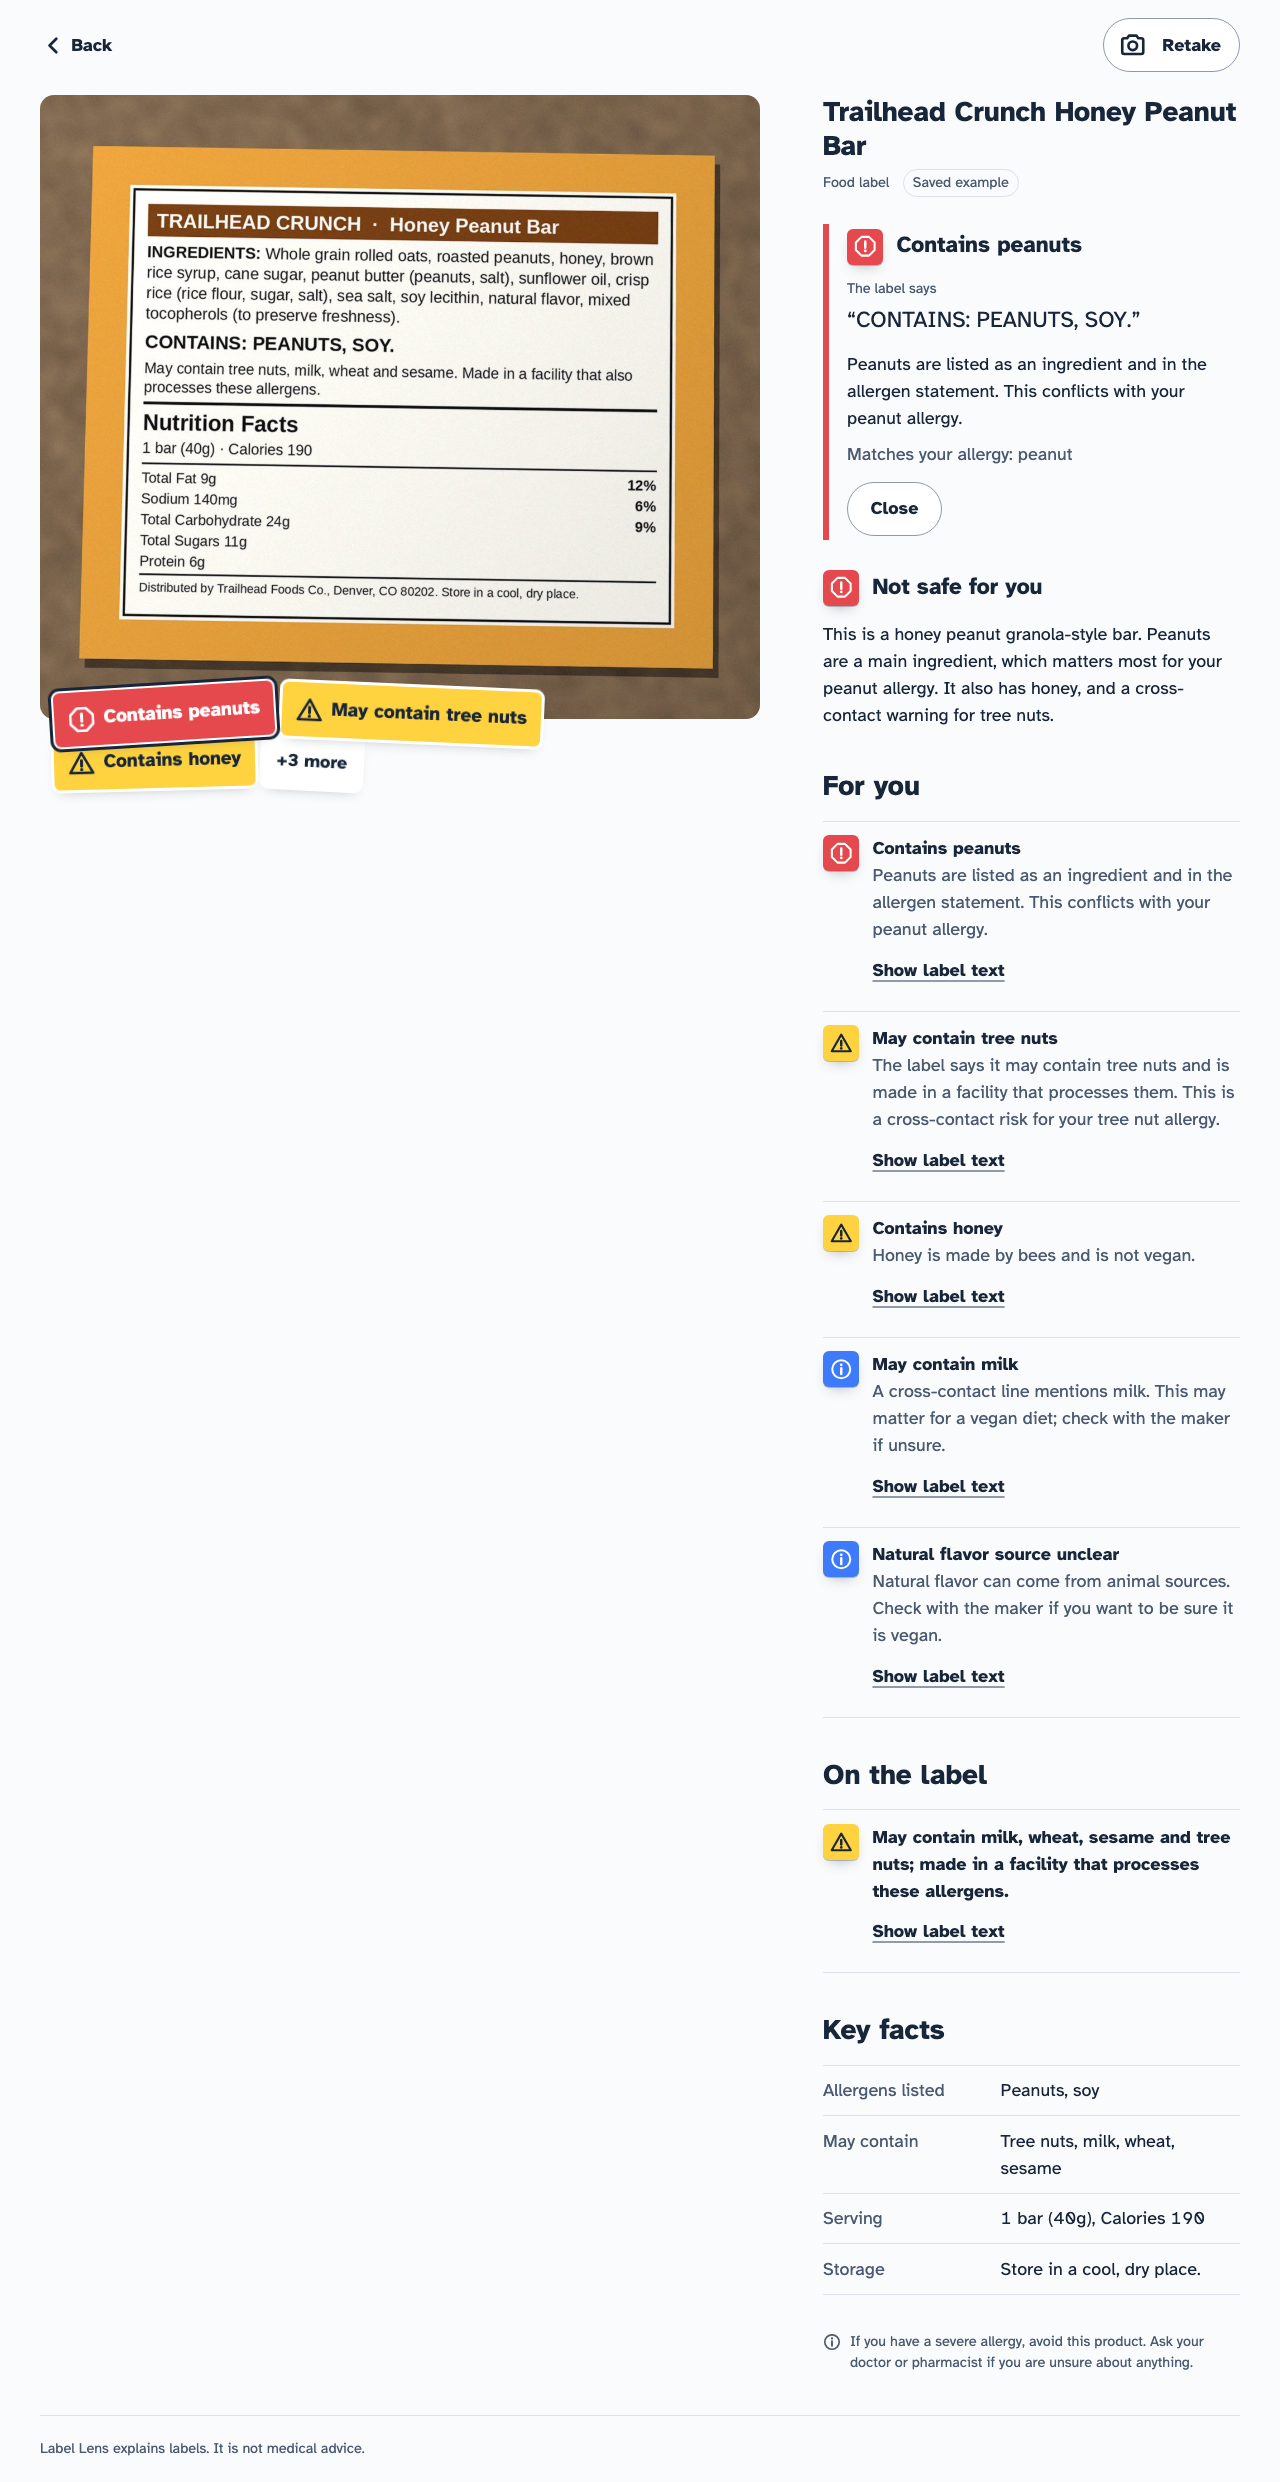
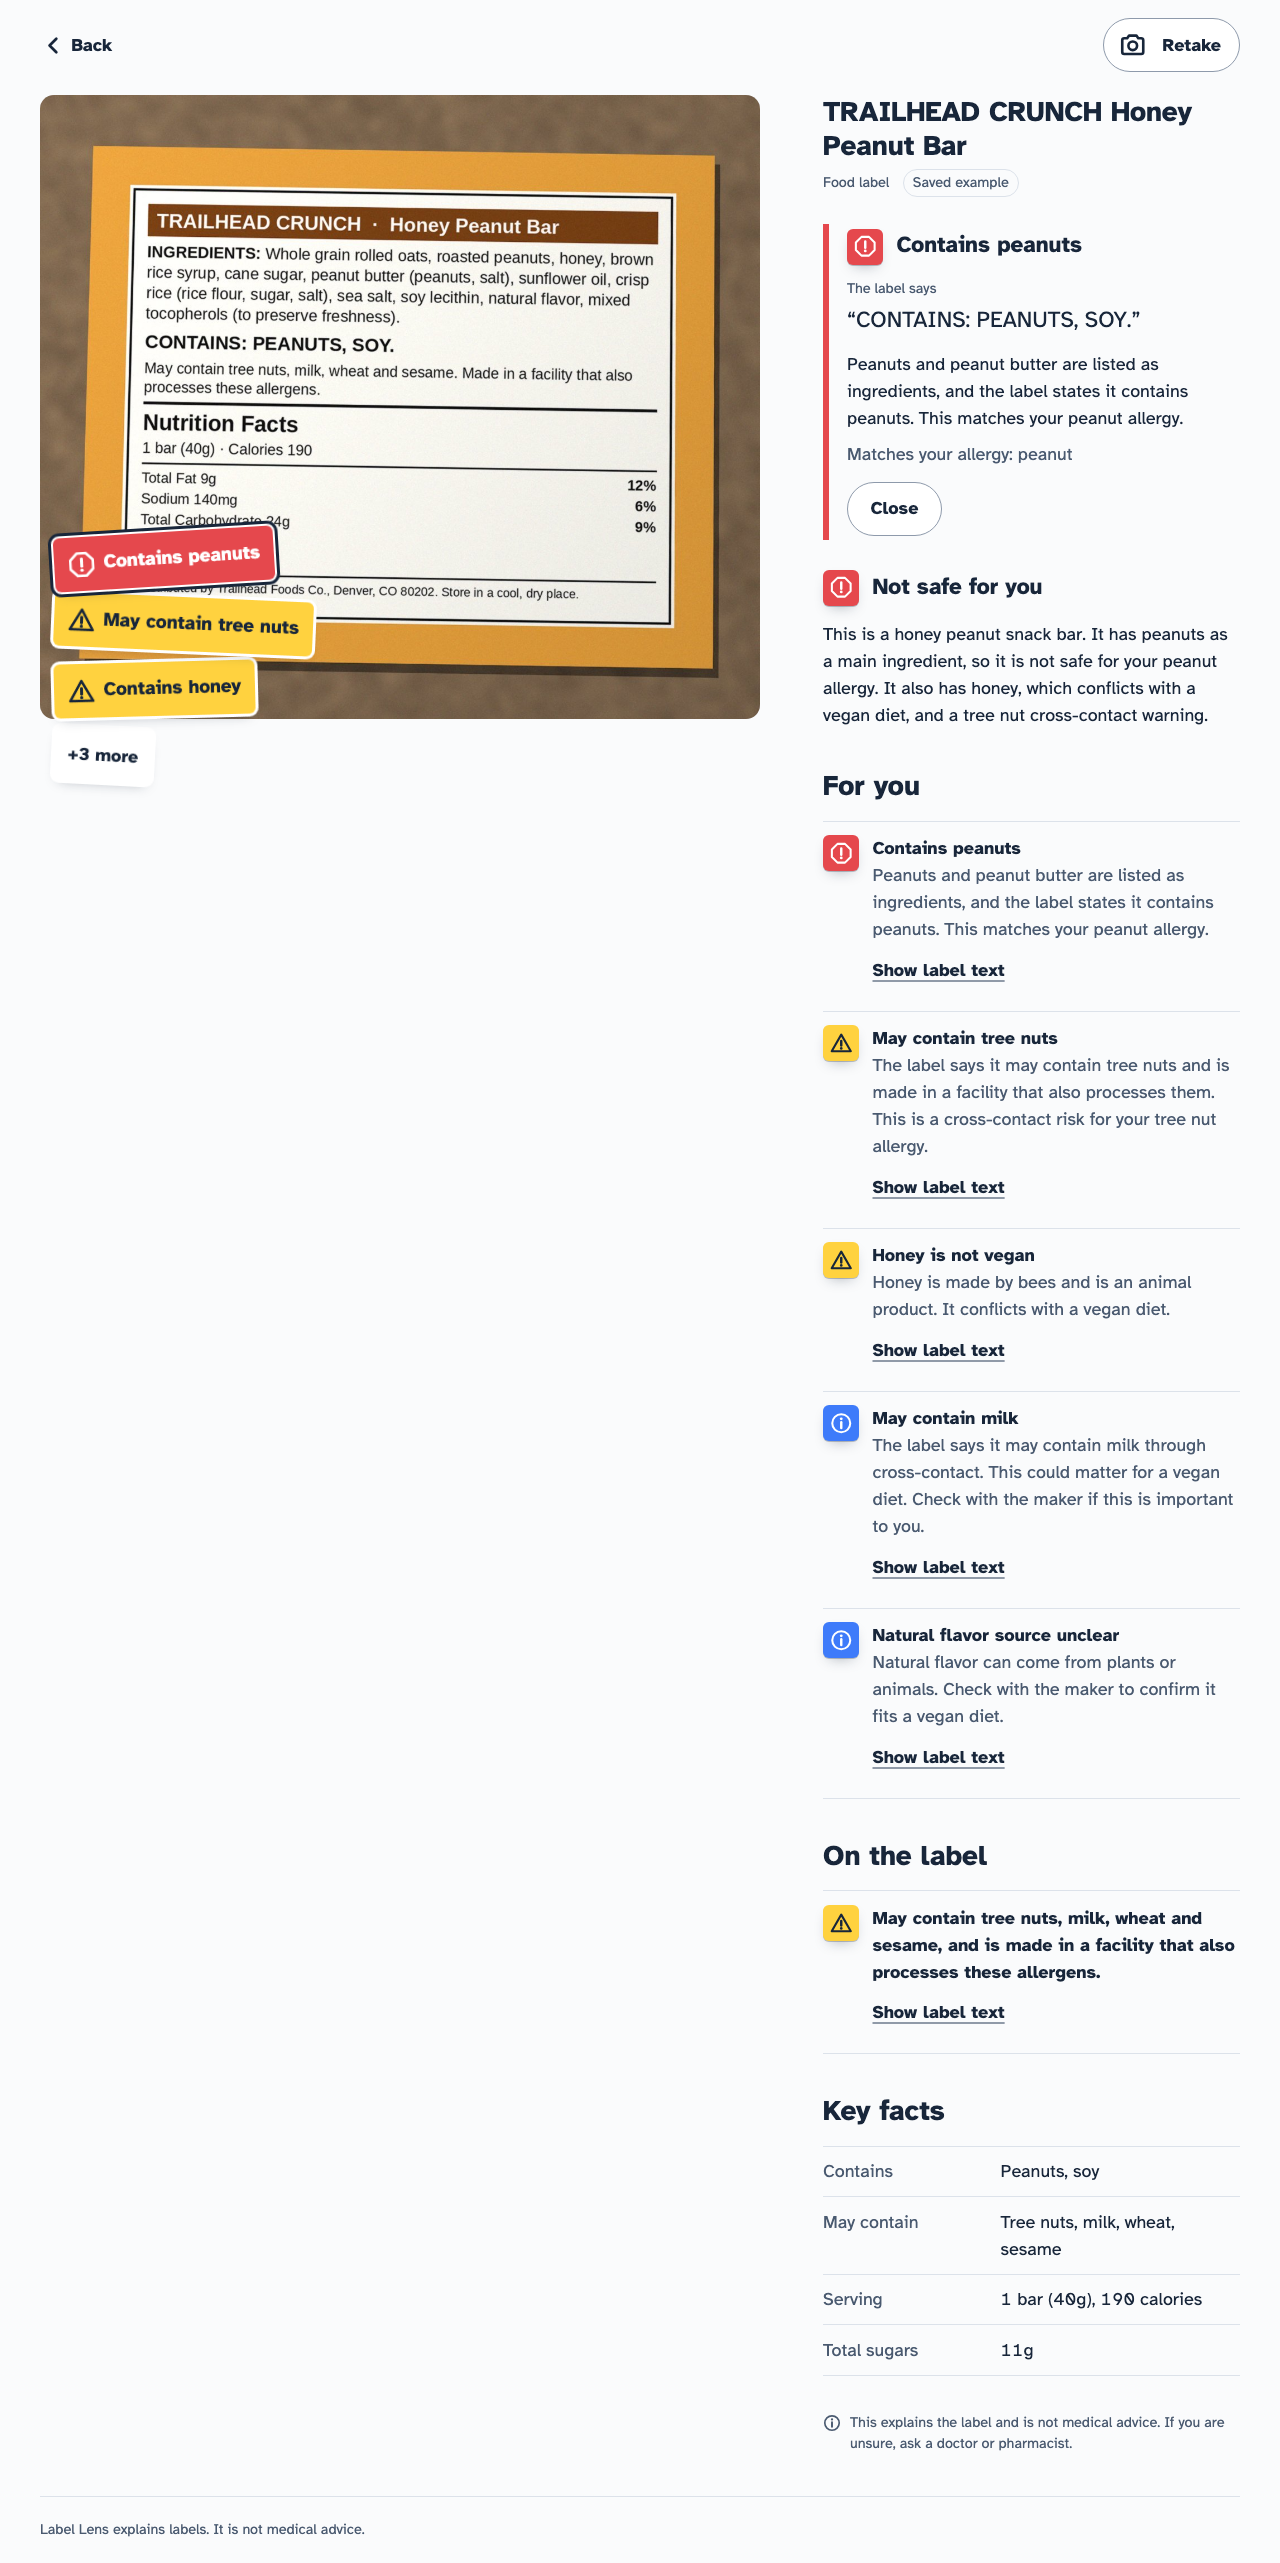
fix: short sticker titles, no sticker overlap, re-record fixtures

Changed region(s): [[0.625, 0.0, 0.9688, 0.9617], [0.0312, 0.031, 0.5938, 0.3413]]

diff --git a/lib/schema.test.ts b/lib/schema.test.ts
@@ -13,12 +13,13 @@ const validAnalysis = {
       severity: "danger",
       kind: "allergen",
       title: "Contains peanuts",
+      stickerTitle: "Contains peanuts",
       explanation: "You listed a peanut allergy.",
       evidence: "Contains: peanuts, soy",
       profileMatch: "peanut",
     },
   ],
-  labelWarnings: [{ severity: "info", text: "Keep dry.", evidence: "Store in a dry place" }],
+  labelWarnings: [{ severity: "info", stickerTitle: "Keep dry", text: "Keep dry.", evidence: "Store in a dry place" }],
   keyFacts: [{ label: "Serving", value: "30 g" }],
   safeForYou: "no",
   confidence: "high",
@@ -46,7 +47,7 @@ describe("Analysis", () => {
   });
 
   test("rejects a label warning with missing evidence", () => {
-    const bad = { ...validAnalysis, labelWarnings: [{ severity: "info", text: "Keep dry." }] };
+    const bad = { ...validAnalysis, labelWarnings: [{ severity: "info", stickerTitle: "Keep dry", text: "Keep dry." }] };
     expect(Analysis.safeParse(bad).success).toBe(false);
   });
 

diff --git a/components/Sticker.tsx b/components/Sticker.tsx
@@ -26,10 +26,10 @@ export function Sticker({ item, index, open, onOpen }: StickerProps) {
         aria-label={stickerAriaLabel(item)}
         aria-expanded={open}
         onClick={(e) => onOpen(item, e.currentTarget)}
-        className={`flex min-h-12 max-w-[17rem] items-center gap-2 rounded-sticker px-3 py-2 text-left text-sticker leading-tight font-bold shadow-sticker ring-[3px] ring-white aria-expanded:outline-3 aria-expanded:outline-offset-2 aria-expanded:outline-ink ${TONE_CLASS[item.severity]}`}
+        className={`flex min-h-12 max-w-[min(100%,17rem)] items-center gap-2 rounded-sticker px-3 py-2 text-left text-sticker leading-tight font-bold shadow-sticker ring-[3px] ring-white aria-expanded:outline-3 aria-expanded:outline-offset-2 aria-expanded:outline-ink ${TONE_CLASS[item.severity]}`}
       >
         <Pictogram severity={item.severity} />
-        <span>{item.title}</span>
+        <span>{item.stickerTitle}</span>
       </button>
     </li>
   );

diff --git a/lib/stickers.ts b/lib/stickers.ts
@@ -6,6 +6,8 @@ export interface StickerItem {
   id: string;
   severity: Severity;
   title: string;
+  /** Short text shown on the sticker itself; the full sentence lives in the evidence sheet. */
+  stickerTitle: string;
   explanation: string;
   /** Exact text read from the label. Every sticker leads to one. */
   evidence: string;
@@ -37,6 +39,7 @@ export function stickersFrom(analysis: Analysis): StickerItem[] {
     id: `flag-${i}`,
     severity: f.severity,
     title: f.title,
+    stickerTitle: f.stickerTitle,
     explanation: f.explanation,
     evidence: f.evidence,
     profileMatch: f.profileMatch || null,
@@ -46,6 +49,7 @@ export function stickersFrom(analysis: Analysis): StickerItem[] {
     id: `label-${i}`,
     severity: w.severity,
     title: w.text,
+    stickerTitle: w.stickerTitle,
     explanation: "",
     evidence: w.evidence,
     profileMatch: null,

diff --git a/app/api/analyze/route.test.ts b/app/api/analyze/route.test.ts
@@ -13,6 +13,7 @@ const flag = (over: Partial<PersonalFlag>): PersonalFlag => ({
   severity: "danger",
   kind: "allergen",
   title: "Contains peanuts",
+  stickerTitle: "Contains peanuts",
   explanation: "Peanuts are listed.",
   evidence: "Contains: peanuts",
   profileMatch: "peanut",
@@ -26,7 +27,7 @@ const recordedAnalysis: Analysis = {
   language: "en",
   summary: "A snack.",
   personalFlags: [flag({}), flag({ kind: "interaction", severity: "caution", profileMatch: "warfarin", evidence: "ibuprofen" })],
-  labelWarnings: [{ severity: "info", text: "Store dry.", evidence: "Store in a dry place" }],
+  labelWarnings: [{ severity: "info", stickerTitle: "Store dry", text: "Store dry.", evidence: "Store in a dry place" }],
   keyFacts: [],
   safeForYou: "no",
   confidence: "high",

diff --git a/lib/prompts.ts b/lib/prompts.ts
@@ -20,6 +20,9 @@ Evidence (strict)
 Naming
 - productName follows the same rule as a title: brand + product only, at most 6 words (for example "WellPath Ibuprofen 200 mg"), or null.
 
+Sticker titles
+- Every personalFlag and labelWarning has a stickerTitle: 28 characters or fewer, 2 to 4 words, no trailing period (for example "Contains peanuts", "May contain milk", "Interacts with warfarin", "Stomach bleeding risk"). It is a label for a small sticker, not a sentence. Same language as the rest of the text.
+
 Writing and length (keep it short)
 - Write summary, titles, explanations, key-fact labels and values, and the disclaimer in the language requested in the user message. Evidence stays in the label's original language.
 - In Spanish, use the informal "tú" form.

diff --git a/lib/schema.ts b/lib/schema.ts
@@ -14,6 +14,7 @@ export const PersonalFlag = z.object({
   severity: Severity,
   kind: z.enum(["allergen", "interaction", "diet", "other"]),
   title: z.string().max(100),
+  stickerTitle: z.string().min(1).max(40),
   explanation: z.string().max(240),
   evidence: z.string().min(1).max(300),
   profileMatch: z.string().max(100),
@@ -22,6 +23,7 @@ export type PersonalFlag = z.infer<typeof PersonalFlag>;
 
 export const LabelWarning = z.object({
   severity: Severity,
+  stickerTitle: z.string().min(1).max(40),
   text: z.string().max(160),
   evidence: z.string().min(1).max(300),
 });

diff --git a/components/PhotoStage.tsx b/components/PhotoStage.tsx
@@ -42,7 +42,7 @@ export function PhotoStage({ photoUrl, aspect, stickers, pending, stopped, openI
       {(stickers === null ? pending : stickers.length > 0) && (
         <ul
           aria-label={stickers ? "Warning stickers on your photo" : undefined}
-          className="absolute inset-x-3 bottom-0 flex flex-wrap content-end items-start gap-x-2 [&>li]:-mb-1.5"
+          className="absolute inset-x-3 bottom-0 flex flex-col items-start gap-2.5"
         >
           {stickers === null ? (
             <StickerSkeletons />

diff --git a/e2e/screens.spec.ts b/e2e/screens.spec.ts
@@ -2,7 +2,7 @@ import { test, expect, type Page } from "@playwright/test";
 
 // Screenshots for the design critique pass. Run with: npx playwright test e2e/screens.spec.ts
 const VIEWPORTS = [
-  { name: "375", width: 375, height: 812 },
+  { name: "390", width: 390, height: 844 },
   { name: "1280", width: 1280, height: 800 },
 ] as const;
 

diff --git a/lib/models.ts b/lib/models.ts
@@ -3,5 +3,5 @@ export const ANALYSIS_MODEL = "claude-sonnet-5-5";
 export const ASK_MODEL = "claude-haiku-5-5";
 
 export const QUICK_MAX_TOKENS = 200;
-export const ANALYSIS_MAX_TOKENS = 1200;
+export const ANALYSIS_MAX_TOKENS = 1800;
 export const ASK_MAX_TOKENS = 600;

diff --git a/lib/postprocess.test.ts b/lib/postprocess.test.ts
@@ -6,6 +6,7 @@ const flag = (over: Partial<PersonalFlag>): PersonalFlag => ({
   severity: "caution",
   kind: "other",
   title: "t",
+  stickerTitle: "t",
   explanation: "e",
   evidence: "Contains: peanuts",
   profileMatch: "peanut",
